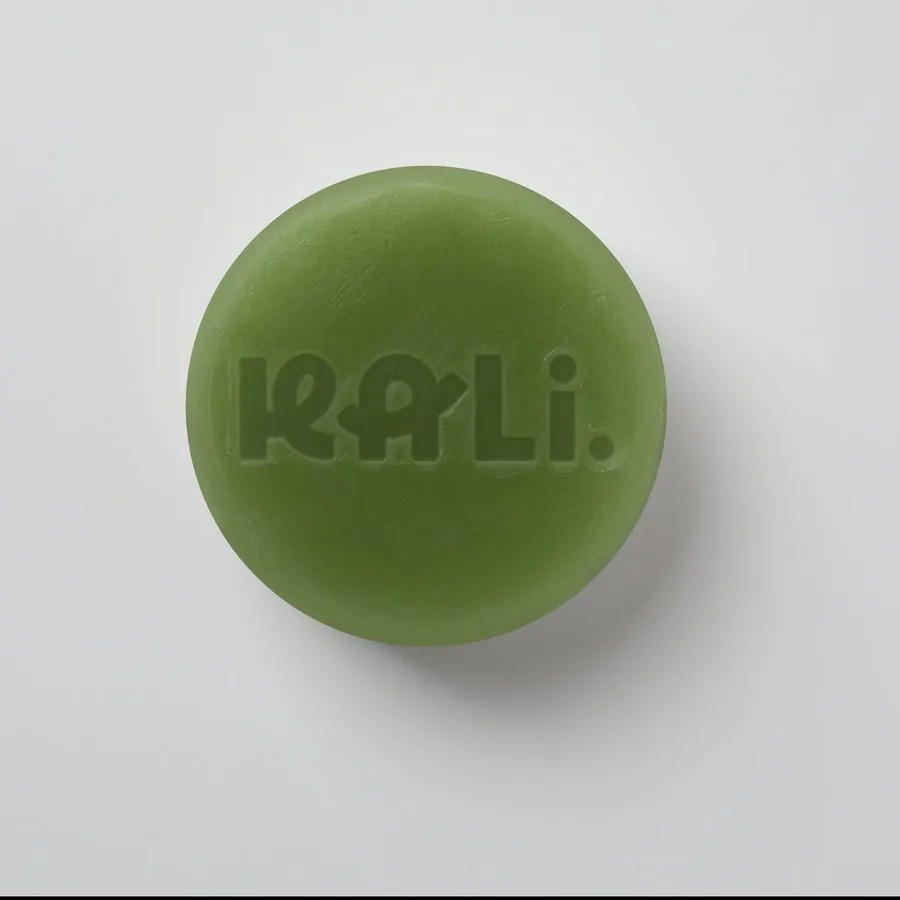
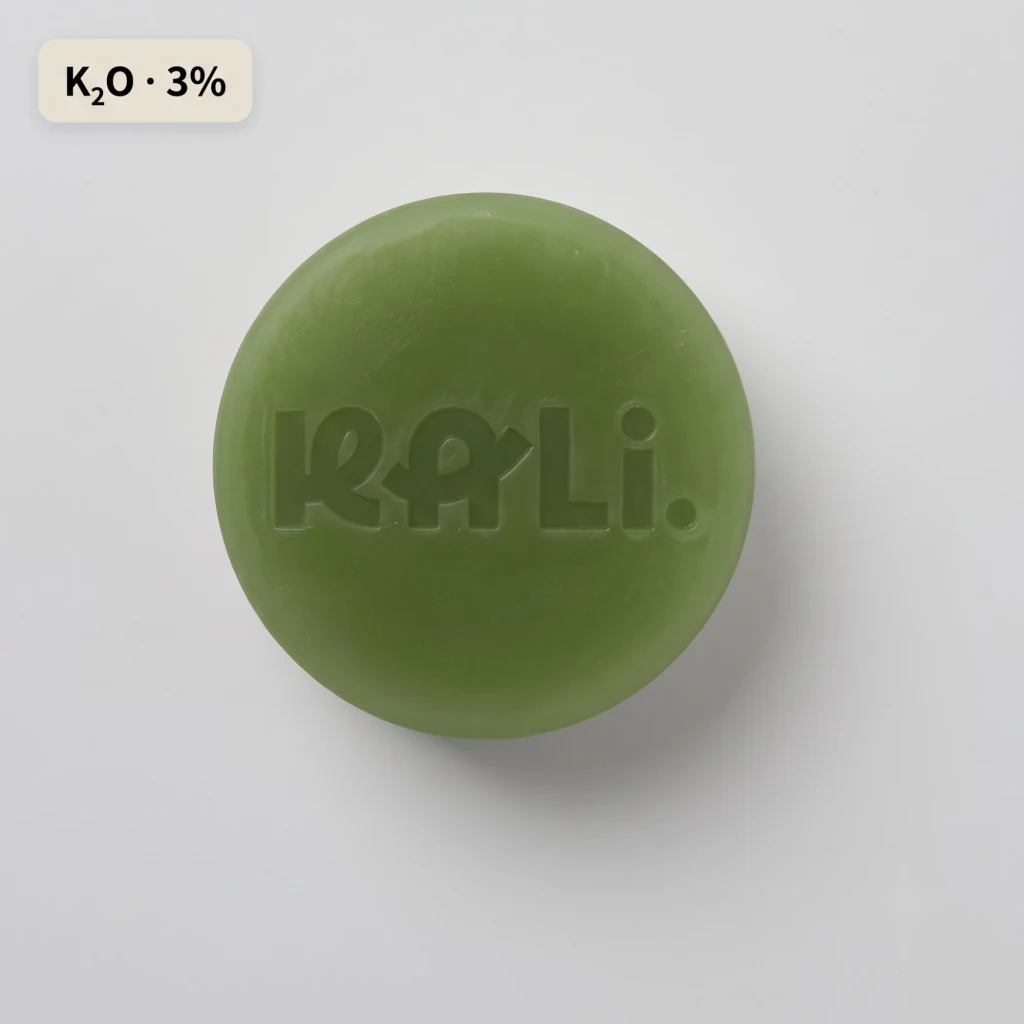
카리비누 03/05/08/13 제품 사진 교체 — K₂O 라벨 포함, Gemini 워터마크 제거

diff --git a/index.html b/index.html
@@ -17,18 +17,18 @@
 <link href="https://fonts.googleapis.com/css2?family=Archivo:wght@700;900&family=Noto+Sans+KR:wght@400;500;700;900&family=Noto+Sans+SC:wght@400;500;700;900&display=swap" rel="stylesheet">
 <link rel="icon" href="assets/img/favicon.svg" type="image/svg+xml">
 <!-- 스타일시트는 순서가 중요합니다. 토큰 → 기본 → 공통 → 페이지별 순으로 읽힙니다. -->
-<link rel="stylesheet" href="assets/css/tokens.css?v=202610071606">
-<link rel="stylesheet" href="assets/css/base.css?v=202610071606">
-<link rel="stylesheet" href="assets/css/components.css?v=202610071606">
-<link rel="stylesheet" href="assets/css/pages/home.css?v=202610071606">
-<link rel="stylesheet" href="assets/css/pages/about.css?v=202610071606">
-<link rel="stylesheet" href="assets/css/pages/process.css?v=202610071606">
-<link rel="stylesheet" href="assets/css/pages/material.css?v=202610071606">
-<link rel="stylesheet" href="assets/css/pages/products.css?v=202610071606">
-<link rel="stylesheet" href="assets/css/pages/business.css?v=202610071606">
-<link rel="stylesheet" href="assets/css/pages/partnership.css?v=202610071606">
-<link rel="stylesheet" href="assets/css/pages/contact.css?v=202610071606">
-<link rel="stylesheet" href="assets/css/theme.css?v=202610071606">
+<link rel="stylesheet" href="assets/css/tokens.css?v=202610071616">
+<link rel="stylesheet" href="assets/css/base.css?v=202610071616">
+<link rel="stylesheet" href="assets/css/components.css?v=202610071616">
+<link rel="stylesheet" href="assets/css/pages/home.css?v=202610071616">
+<link rel="stylesheet" href="assets/css/pages/about.css?v=202610071616">
+<link rel="stylesheet" href="assets/css/pages/process.css?v=202610071616">
+<link rel="stylesheet" href="assets/css/pages/material.css?v=202610071616">
+<link rel="stylesheet" href="assets/css/pages/products.css?v=202610071616">
+<link rel="stylesheet" href="assets/css/pages/business.css?v=202610071616">
+<link rel="stylesheet" href="assets/css/pages/partnership.css?v=202610071616">
+<link rel="stylesheet" href="assets/css/pages/contact.css?v=202610071616">
+<link rel="stylesheet" href="assets/css/theme.css?v=202610071616">
 </head>
 <body>
 <a class="skip-link" href="#viewport">본문으로 건너뛰기</a>
@@ -260,7 +260,7 @@
       <span class="hs-label" data-i18n="home.splitPartner">카리바이오 파트너 모집</span>
     </a>
   </div>
-  <script src="assets/js/pages/home.js?v=202610071606"></script>
+  <script src="assets/js/pages/home.js?v=202610071616"></script>
 </section>
 
 <!-- =====================================================================
@@ -755,7 +755,7 @@
       <article class="pd" id="prodDetail" hidden aria-live="polite"></article>
     </div>
   </div>
-  <script src="assets/js/pages/products.js?v=202610071606"></script>
+  <script src="assets/js/pages/products.js?v=202610071616"></script>
 </section>
 
 <!-- =====================================================================
@@ -845,7 +845,7 @@
             </div>
           </section>
         </div>
-        <script src="assets/js/pages/story.js?v=202610071606"></script>
+        <script src="assets/js/pages/story.js?v=202610071616"></script>
       </div>
       <div id="brand-process" class="tech-block" hidden>
         <!-- 브랜드 > 공정 — SCROLL TO EXPERIENCE THE PROCESS
@@ -981,7 +981,7 @@
             </div>
           </section>
         </div>
-        <script src="assets/js/pages/process.js?v=202610071606"></script>
+        <script src="assets/js/pages/process.js?v=202610071616"></script>
       </div>
       <div id="about-why" class="info-section" hidden>
         <h3 class="block-title reveal" data-i18n="about2.whyTitle">선택해야 하는 이유</h3>
@@ -1203,7 +1203,7 @@
 <a href="#contact" class="sticky-cta"><span class="sticky-cta-btn" data-i18n="stickyCta">파트너십 문의</span></a>
 
 
-<script src="assets/js/i18n.js?v=202610071606"></script>
-<script src="assets/js/app.js?v=202610071606"></script>
+<script src="assets/js/i18n.js?v=202610071616"></script>
+<script src="assets/js/app.js?v=202610071616"></script>
 </body>
 </html>
